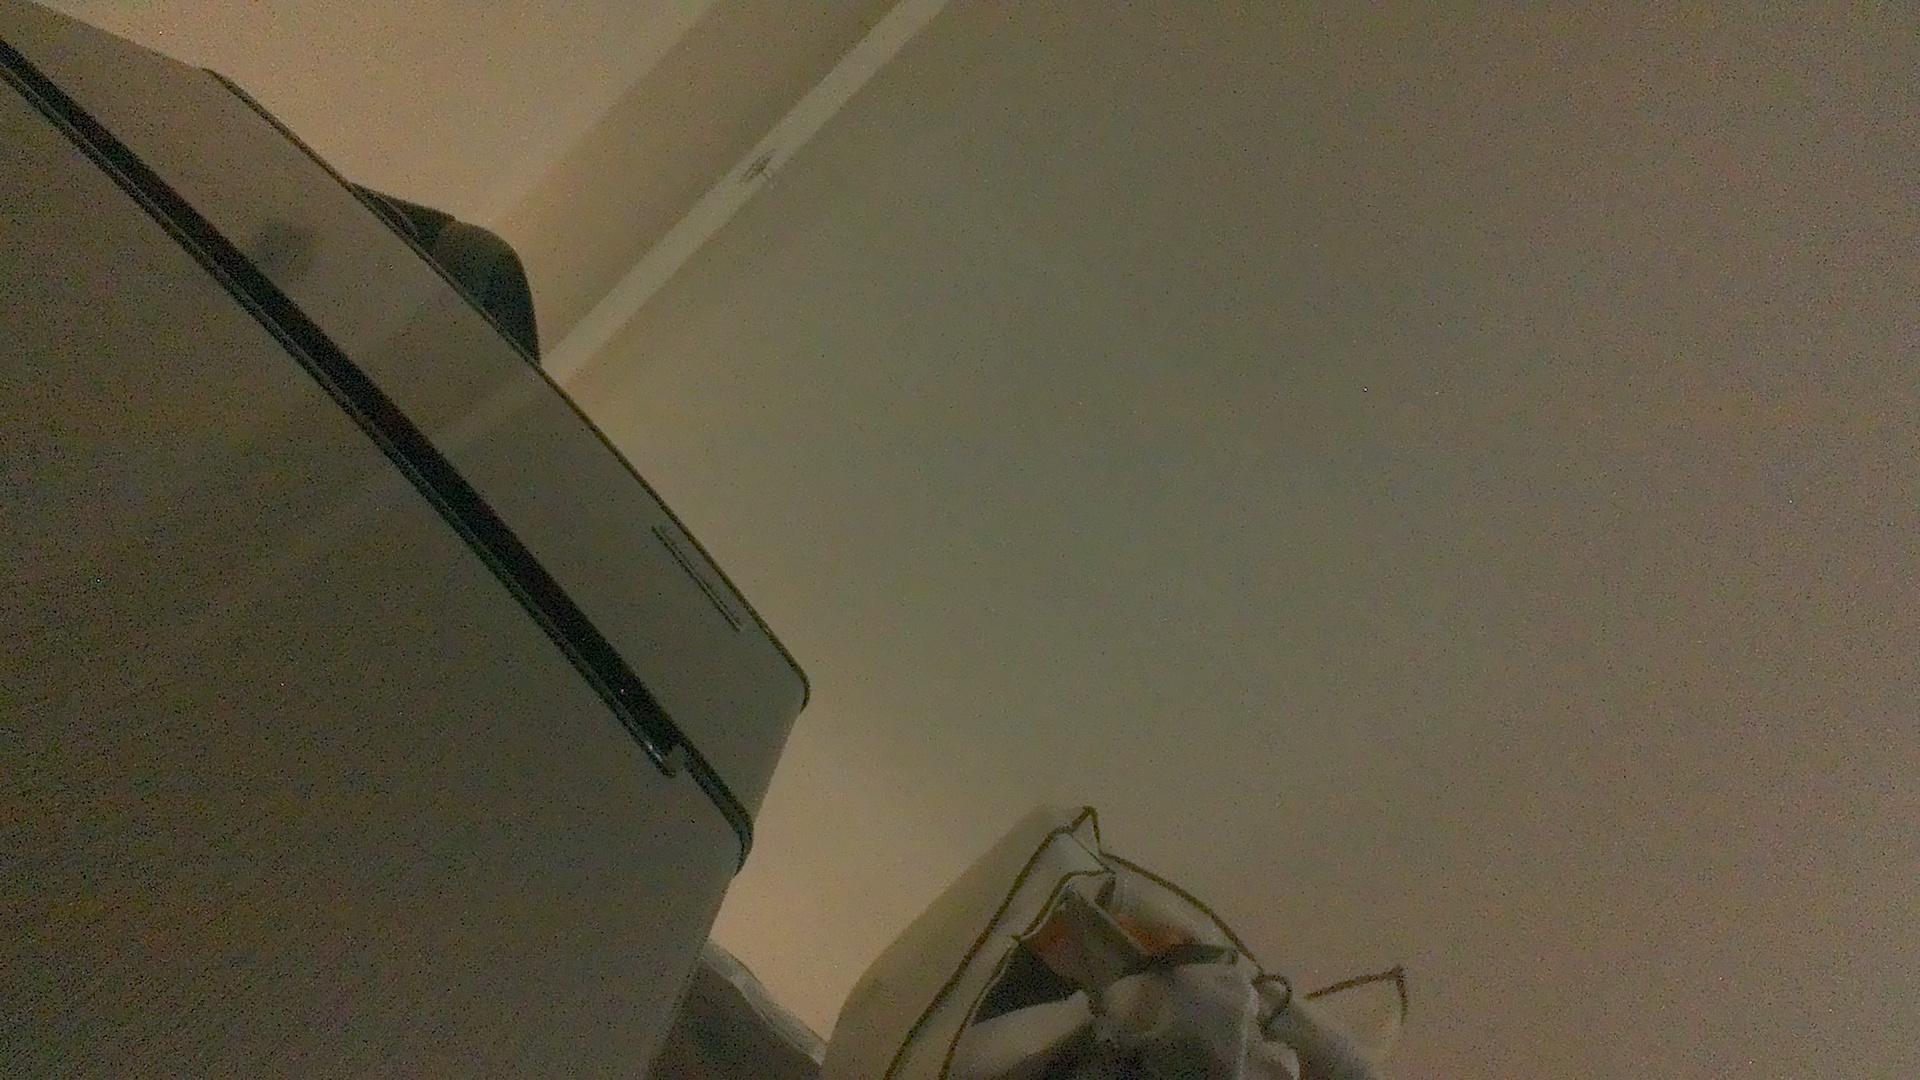
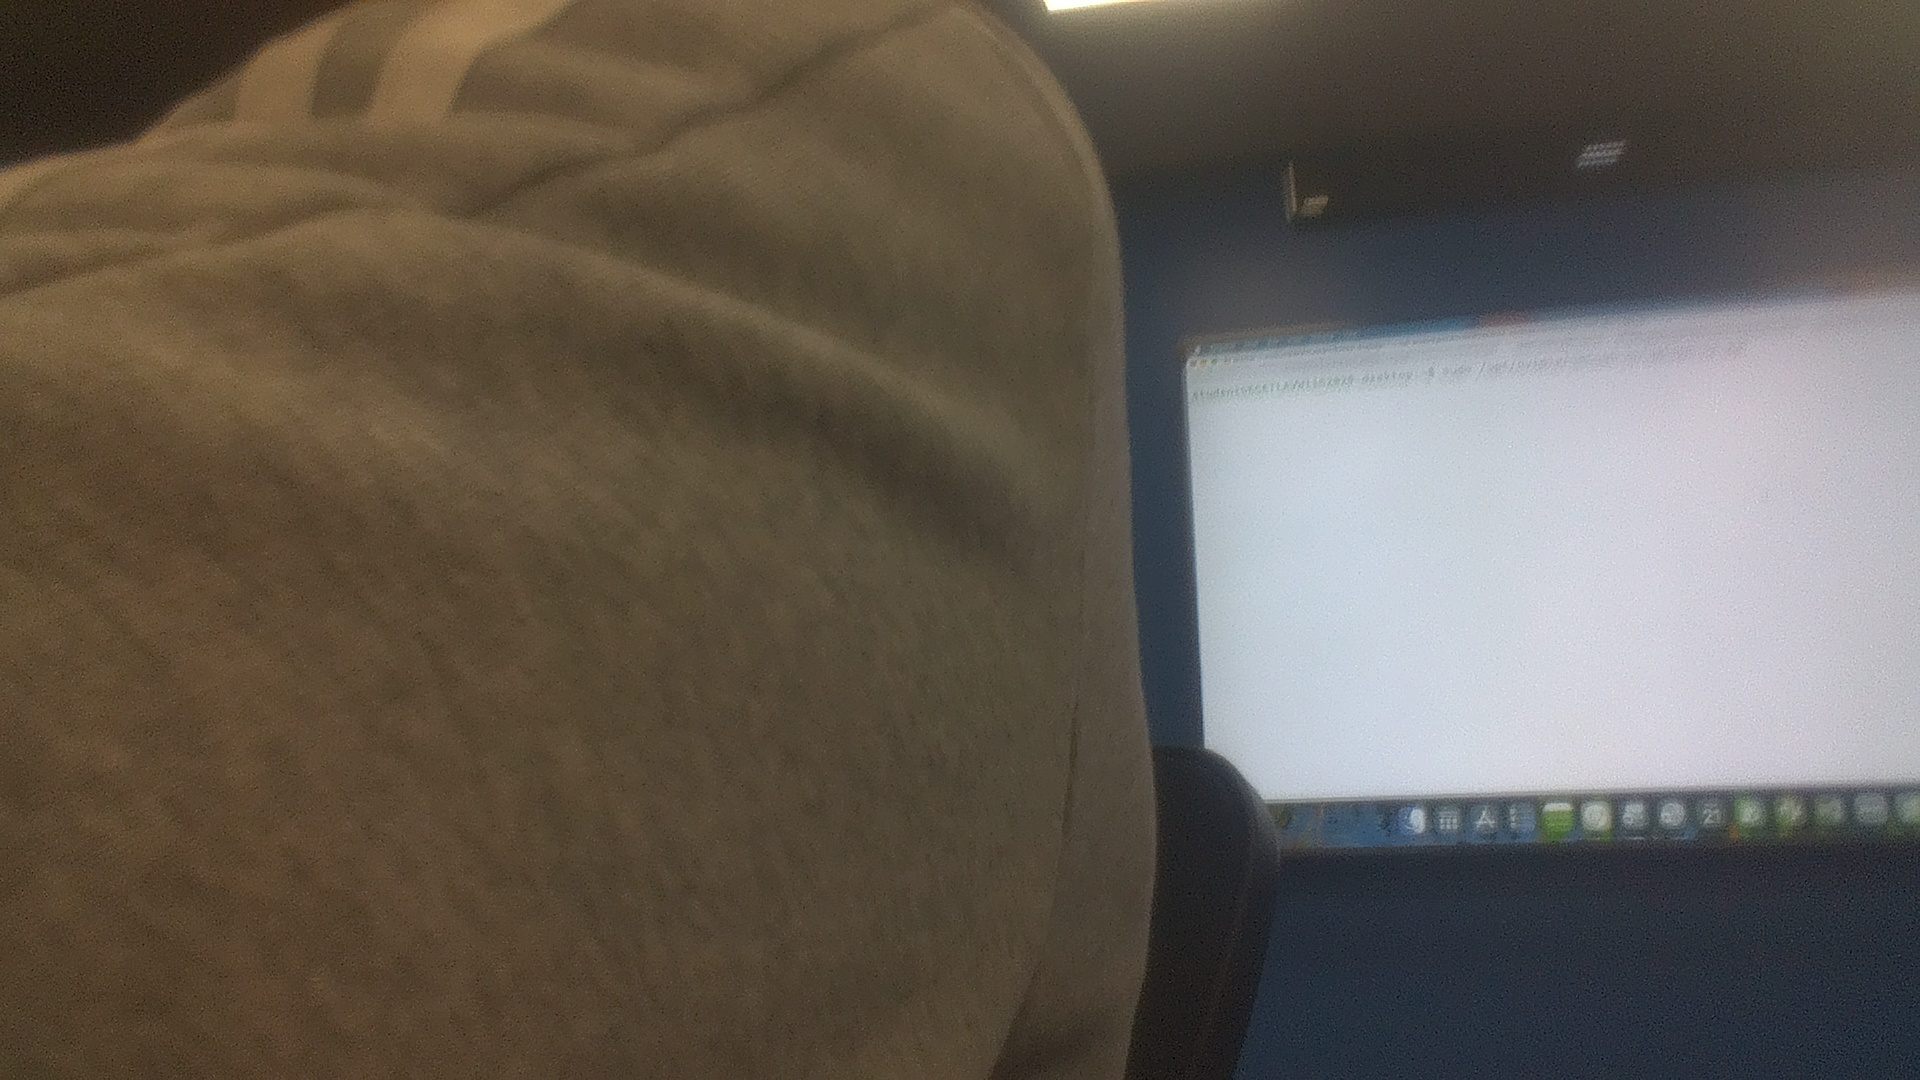
10/21 lab07 pics

diff --git a/lab07/frames.py b/lab07/frames.py
@@ -10,6 +10,8 @@ import json
 import numpy as np
 from pathlib import Path
 
+import math
+
 class FrameError(ValueError):
     """A shape or a format this module cannot price. `capture.py` exits 3."""
 
@@ -114,15 +116,69 @@ def grab_frame(pipeline: str, warmup_frames: int = 15) -> np.ndarray:
 ############################
 
 def frame_bytes(width: int, height: int, fmt: str) -> int:
-    pass
+    # pass
+    if not(width > 0 and height > 0):
+        raise(FrameError)
+    elif not fmt.lower():
+        raise(FrameError)
+    else:
+        total = width * height * _bytes_per_pixel(fmt)
+        bytes_var = math.ceil(total)
+
+        return bytes_var
 
 
 def bytes_per_second(width: int, height: int, fmt: str, fps: float) -> float:
-    pass
+    # pass
+    if not (fps > 0):
+        raise(FrameError)
+    else:
+        single_frame_bs = frame_bytes(width, height, fmt)
+        bandwith = single_frame_bs * fps
+
+        return bandwith
 
 
 def frame_stats(pixels: Sequence[float] | Iterable[float]) -> dict[str, float]:
-    pass
+    # pass
+    values = []
+    values.extend(pixels)
+    # print(values)
+
+    # import pdb; pdb.set_trace()
+
+    if not values:
+        raise(FrameError)
+    else:
+        min_values = min(values)
+        max_values = max(values)
+
+        N = len(values)
+
+        mean_values = sum(values)/N
+
+        variance_squares = []
+
+        for i in range(N):
+            square_v = values[i] - mean_values
+            variance_squares.append(square_v * square_v)
+
+        variance_values = sum(variance_squares)/N
+
+        stddv_values = math.sqrt(variance_values)
+        spread = max_values - min_values
+
+        # print(sorted(values[1]))
+        
+        return {
+            "min": min_values,
+            "max": max_values,
+            "mean": mean_values,
+            "spread": spread,
+            "sd": stddv_values,
+            "samples": N
+        }
+            
 
 
 def classify(stats: dict[str, float]) -> tuple[str, str]:
@@ -163,11 +219,12 @@ def main(
     json_path = out_path / json_filename
 
     # 1. Capture frame from hardware
-    pipeline_str = gstreamer_pipeline()
-    frame_bgr = grab_frame(pipeline_str)
+    # pipeline_str = gstreamer_pipeline()
+    # frame_bgr = grab_frame(pipeline_str)
 
-    # 2. Save captured image to disk
-    cv2.imwrite(str(img_path), frame_bgr)
+    # # 2. Save captured image to disk
+    # cv2.imwrite(str(img_path), frame_bgr)
+    frame_bgr = cv2.imread("test_photo.jpg") # commented out 218-222 and added the code in 223 so I can work on lab7 at home
     height, width, _ = frame_bgr.shape
 
     # 3. Extract normalized luma/grayscale values in [0.0, 1.0] for classification
@@ -177,51 +234,52 @@ def main(
 
     # 4. Compute statistics and scene category
     stats = frame_stats(normalized_luma)
-    classification, reason = classify(stats)
+    print(stats) # added this line too
+    # classification, reason = classify(stats) # commented lines 234 to 278 and added line 233
 
-    # 5. Calculate memory bus bandwidth and conversion costs
-    formats_table = summarise_formats(width, height)
-    bgr_bandwidth_bps = bytes_per_second(width, height, "bgr", target_fps)
-    nv12_to_bgr_cost = conversion_bytes(width, height, "nv12", "bgr")
-    norm_cost = normalise_bytes(width, height, channels=3, out_bytes=4)
+    # # 5. Calculate memory bus bandwidth and conversion costs
+    # formats_table = summarise_formats(width, height)
+    # bgr_bandwidth_bps = bytes_per_second(width, height, "bgr", target_fps)
+    # nv12_to_bgr_cost = conversion_bytes(width, height, "nv12", "bgr")
+    # norm_cost = normalise_bytes(width, height, channels=3, out_bytes=4)
 
-    # Downsampling budget example (1080p -> 224x224 input tensor)
-    resize_cost = resize_bytes(width, height, 224, 224, "rgb")
+    # # Downsampling budget example (1080p -> 224x224 input tensor)
+    # resize_cost = resize_bytes(width, height, 224, 224, "rgb")
 
-    # 6. Aggregate payload and write JSON
-    payload: dict[str, Any] = {
-        "capture_metadata": {
-            "saved_image_path": str(img_path.resolve()),
-            "width": width,
-            "height": height,
-            "channels": 3,
-            "assumed_fps": target_fps,
-        },
-        "frame_analysis": {
-            "classification": classification,
-            "classification_reason": reason,
-            "stats": stats,
-        },
-        "memory_pricing": {
-            "bandwidth_bytes_per_sec": {
-                "bgr_live_stream": bgr_bandwidth_bps,
-                "nv12_live_stream": bytes_per_second(width, height, "nv12", target_fps),
-            },
-            "format_comparison": formats_table,
-            "pipeline_stage_costs": {
-                "nv12_to_bgr_conversion_bytes": nv12_to_bgr_cost,
-                "resize_to_224x224_rgb_bytes": resize_cost,
-                "fp32_normalization_tensor_bytes": norm_cost,
-            },
-        },
-    }
+    # # 6. Aggregate payload and write JSON
+    # payload: dict[str, Any] = {
+    #     "capture_metadata": {
+    #         "saved_image_path": str(img_path.resolve()),
+    #         "width": width,
+    #         "height": height,
+    #         "channels": 3,
+    #         "assumed_fps": target_fps,
+    #     },
+    #     "frame_analysis": {
+    #         "classification": classification,
+    #         "classification_reason": reason,
+    #         "stats": stats,
+    #     },
+    #     "memory_pricing": {
+    #         "bandwidth_bytes_per_sec": {
+    #             "bgr_live_stream": bgr_bandwidth_bps,
+    #             "nv12_live_stream": bytes_per_second(width, height, "nv12", target_fps),
+    #         },
+    #         "format_comparison": formats_table,
+    #         "pipeline_stage_costs": {
+    #             "nv12_to_bgr_conversion_bytes": nv12_to_bgr_cost,
+    #             "resize_to_224x224_rgb_bytes": resize_cost,
+    #             "fp32_normalization_tensor_bytes": norm_cost,
+    #         },
+    #     },
+    # }
 
-    with open(json_path, "w", encoding="utf-8") as f:
-        json.dump(payload, f, indent=4)
+    # with open(json_path, "w", encoding="utf-8") as f:
+    #     json.dump(payload, f, indent=4)
 
-    print(f"Captured frame saved to : {img_path}")
-    print(f"Analysis saved to       : {json_path}")
-    print(f"Classification result   : {classification.upper()} ({reason})")
+    # print(f"Captured frame saved to : {img_path}")
+    # print(f"Analysis saved to       : {json_path}")
+    # print(f"Classification result   : {classification.upper()} ({reason})")
 
 if __name__ == "__main__":
     main()
